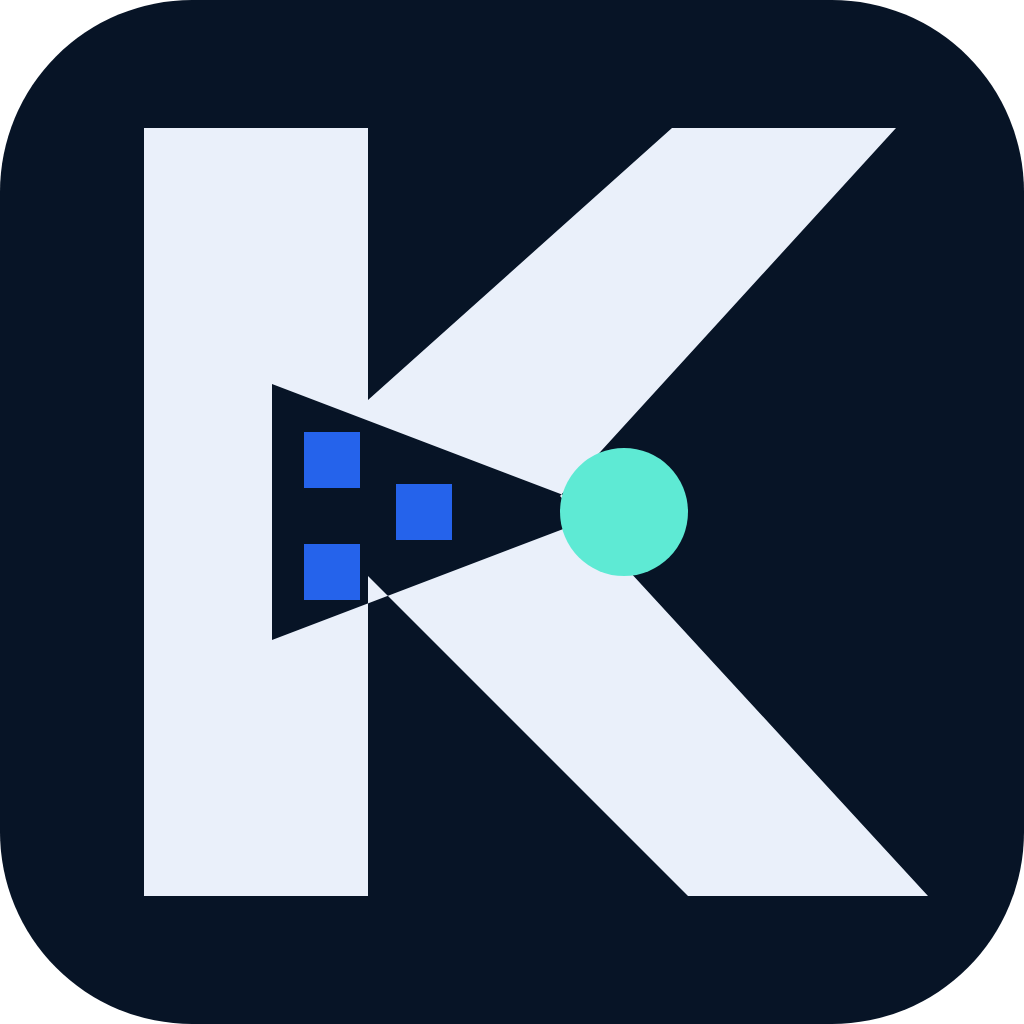
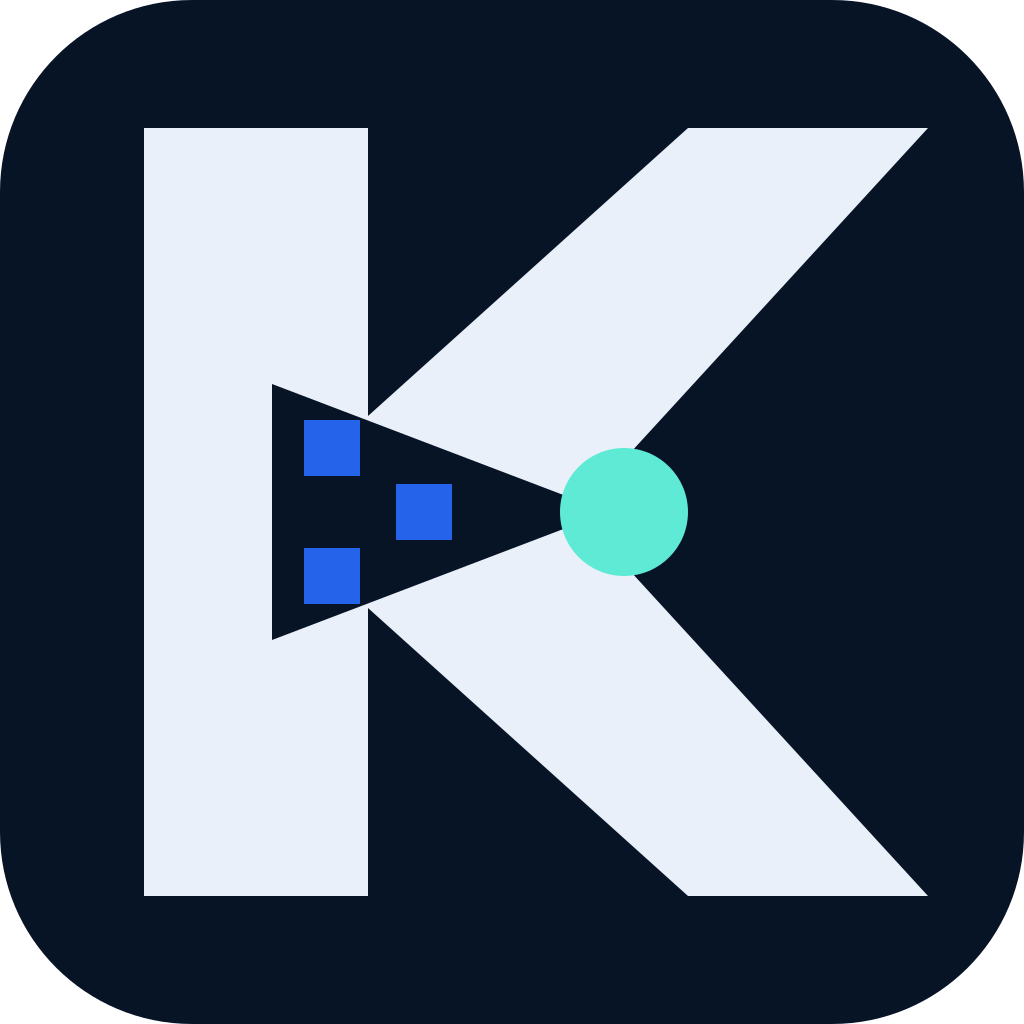
:art: style(branding): center collector aperture

diff --git a/test/docs/test_docs_visual_contract.py b/test/docs/test_docs_visual_contract.py
@@ -111,7 +111,11 @@ class DocsVisualContractTest(unittest.TestCase):
             self.assertNotIn("<rect", svg, f"{name} must keep a transparent canvas")
             self.assertIn('data-concept="collector-aperture"', svg)
             self.assertIn(
-                "M19 27h3.5v3.5h-3.5zm5.75 3.25h3.5v3.5h-3.5zM19 34h3.5v3.5h-3.5z",
+                "M9 8h14v18L43 8h15L36 32l22 24H43L23 38v18H9zm8 16 21 8-21 8z",
+                svg,
+            )
+            self.assertIn(
+                "M19 26.25h3.5v3.5H19zm5.75 4h3.5v3.5h-3.5zM19 34.25h3.5v3.5H19z",
                 svg,
             )
         self.assertIn("logo: assets/branding/kollect-symbol-light.svg", config)
